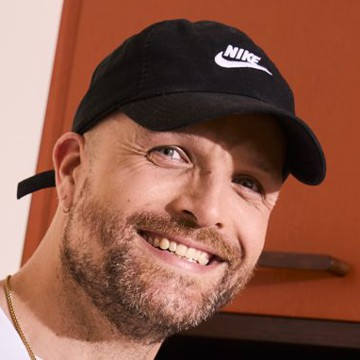
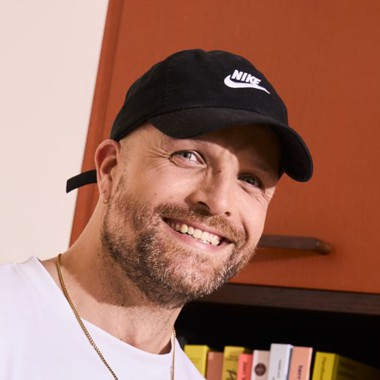
v9: social proof (300k volgers), schone body-font, cover kantelt naar de knop
- Body-font Figtree (nette NL-accenten en i-puntjes)
- Cover kantelt richting de bestelknop
- Korte microcopy: "Bestel nu, 11 september op je mat."
- Lossere nav-avatar

diff --git a/index.html b/index.html
@@ -5,26 +5,26 @@
 <meta name="viewport" content="width=device-width, initial-scale=1">
 <title>Gewoon lekker vegan | Het kookboek van Joris de Kock</title>
 <!--
-  Le Cocque - boek-landingspagina v8 (NL). Korte DOORVERWIJSPAGINA: header, hero (van Joris),
-  foto's, en onderaan Joris zelf. Funnel: Meta ad -> deze pagina -> bol.com (affiliate).
-  Design: Opus. Copy: Fable (boek-toon). Echte kookboek-fotografie (assets/book/).
-  Huisstijl: geen em dashes, geen "-" als scheider, geen middots, geen punt in koppen, geen volgers-claim.
+  Le Cocque - boek-landingspagina v9 (NL). Korte doorverwijspagina naar bol.com (affiliate).
+  v9: body-font Figtree (nette NL-diacritics), cover kantelt naar de knop, korte microcopy,
+  social proof (300.000+ volgers), lossere nav-avatar. Design: Opus. Copy: Fable.
+  Huisstijl: geen em dashes, geen "-" als scheider, geen middots, geen punt in koppen.
 -->
 <link rel="preconnect" href="https://fonts.googleapis.com">
 <link rel="preconnect" href="https://fonts.gstatic.com" crossorigin>
-<link href="https://fonts.googleapis.com/css2?family=Fraunces:ital,opsz,wght@0,9..144,400;0,9..144,500;0,9..144,600;0,9..144,700;1,9..144,400;1,9..144,500&family=Nanum+Gothic:wght@400;700;800&display=swap" rel="stylesheet">
+<link href="https://fonts.googleapis.com/css2?family=Fraunces:ital,opsz,wght@0,9..144,400;0,9..144,500;0,9..144,600;0,9..144,700;1,9..144,400;1,9..144,500&family=Figtree:wght@400;500;600;700;800&display=swap" rel="stylesheet">
 <style>
 :root{
   --cream:#FBFAF7; --cream-2:#F4F2EC; --paper:#FFFFFF;
   --green-deep:#1B3113; --green-bright:#5BAD58; --green-tint:#EAF4E8;
   --ink:#1B3113; --body:#46453F; --border:#E7E3DA; --muted:#7A766B;
   --font-display:"Fraunces",Georgia,"Times New Roman",serif;
-  --font-body:"Nanum Gothic",system-ui,-apple-system,"Segoe UI",Roboto,sans-serif;
+  --font-body:"Figtree",system-ui,-apple-system,"Segoe UI",Roboto,"Helvetica Neue",Arial,sans-serif;
   --radius-tile:24px; --radius-full:9999px; --maxw:1140px;
 }
 *{box-sizing:border-box;margin:0;padding:0}
 html{scroll-behavior:smooth}
-body{font-family:var(--font-body);color:var(--body);font-size:1.06rem;line-height:1.65;background:var(--cream);-webkit-font-smoothing:antialiased;overflow-x:hidden}
+body{font-family:var(--font-body);color:var(--body);font-size:1.05rem;line-height:1.65;background:var(--cream);-webkit-font-smoothing:antialiased;overflow-x:hidden}
 h1,h2,h3{font-family:var(--font-display);color:var(--ink);font-weight:600;line-height:1.05;letter-spacing:-.015em;font-optical-sizing:auto}
 .ital{font-family:var(--font-display);font-style:italic;font-weight:400}
 a{color:inherit;text-decoration:none}
@@ -32,7 +32,7 @@ img{max-width:100%;display:block}
 .wrap{max-width:var(--maxw);margin:0 auto;padding:0 30px}
 section{padding:92px 0}
 
-/* CTA button: clean solid pill, smooth colour-fill on hover, no border, no drop-shadow */
+/* CTA button */
 .btn{position:relative;isolation:isolate;overflow:hidden;display:inline-flex;align-items:center;justify-content:center;gap:10px;border:none;border-radius:var(--radius-full);padding:1.1rem 2.1rem;font-family:var(--font-display);font-weight:600;font-size:17px;cursor:pointer;background:var(--green-deep);color:#fff;transition:color .35s ease,transform .18s ease}
 .btn::before{content:"";position:absolute;inset:0;background:var(--green-bright);transform:translateY(101%);transition:transform .4s cubic-bezier(.2,.75,.2,1);z-index:-1}
 .btn:hover{color:var(--green-deep);transform:translateY(-2px)}
@@ -44,7 +44,7 @@ section{padding:92px 0}
 .nav{position:sticky;top:0;z-index:50;background:rgba(251,250,247,.9);backdrop-filter:blur(12px);border-bottom:1px solid var(--border)}
 .nav .wrap{display:flex;align-items:center;justify-content:space-between;height:72px}
 .brand{display:flex;align-items:center;gap:12px}
-.brand img{width:40px;height:40px;border-radius:50%;object-fit:cover;border:2px solid var(--paper);box-shadow:0 0 0 1px var(--border)}
+.brand img{width:42px;height:42px;border-radius:50%;object-fit:cover;object-position:center 30%;border:2px solid var(--paper);box-shadow:0 0 0 1px var(--border)}
 .brand .name{font-family:var(--font-display);font-weight:700;font-size:25px;color:var(--green-deep)}
 .nav .btn{padding:.72rem 1.5rem;font-size:15px}
 @media(max-width:600px){.nav .btn{display:none}}
@@ -59,10 +59,13 @@ section{padding:92px 0}
 .hero .lede{font-size:1.18rem;margin:28px 0 0;max-width:46ch}
 .hero .meta{font-size:14px;color:var(--muted);margin:22px 0 26px}
 .hero .microcopy{font-size:13.5px;color:var(--green-bright);font-weight:700;margin-top:14px}
+.hero .proof{margin-top:22px;font-size:14px;color:var(--muted);display:inline-flex;align-items:center;gap:9px}
+.hero .proof strong{font-family:var(--font-display);font-weight:700;font-size:19px;color:var(--green-deep)}
+.hero .proof svg{width:17px;height:17px;color:var(--green-bright)}
 .book{display:flex;justify-content:center;perspective:1800px}
-.book-inner{width:min(390px,84%);transform:rotate(-2.5deg);transition:transform .55s cubic-bezier(.2,.7,.2,1)}
+.book-inner{width:min(390px,84%);transform:rotate(2.5deg);transition:transform .55s cubic-bezier(.2,.7,.2,1)}
 .book:hover .book-inner{transform:rotate(0) translateY(-6px)}
-.book img{border-radius:5px 14px 14px 5px;box-shadow:-4px 0 0 rgba(0,0,0,.07),-10px 0 22px rgba(27,49,19,.10),0 30px 55px -14px rgba(27,49,19,.40);border:1px solid rgba(0,0,0,.05)}
+.book img{border-radius:5px 14px 14px 5px;box-shadow:0 32px 55px -14px rgba(27,49,19,.40),12px 0 26px rgba(27,49,19,.10),4px 0 0 rgba(0,0,0,.05);border:1px solid rgba(0,0,0,.05)}
 
 /* food */
 .food-head{text-align:center;max-width:40ch;margin:0 auto 44px}
@@ -111,7 +114,7 @@ footer small{color:var(--muted);font-size:12.5px;width:100%}
   section{padding:68px 0}
   .hero{padding:52px 0 64px}
   .hero-grid{grid-template-columns:1fr;gap:40px}
-  .book-inner{transform:rotate(-2deg);width:min(300px,78vw);margin:0 auto}
+  .book-inner{transform:rotate(2deg);width:min(300px,78vw);margin:0 auto}
   .joris{grid-template-columns:1fr;gap:28px}
   .joris .frame{max-width:340px}
   body{padding-bottom:76px}
@@ -141,8 +144,12 @@ footer small{color:var(--muted);font-size:12.5px;width:100%}
       <p class="meta reveal d3">Verschijnt 11 september 2026. Hardcover, 224 pagina's, &euro; 30.</p>
       <div class="reveal d3">
         <a class="btn btn-lg" href="https://www.bol.com/nl/nl/p/gewoon-lekker-vegan/9300000277719255/?Referrer=ADVNLPPceea17003d8f46380065bba51d681529979&amp;utm_source=1529979&amp;utm_medium=Affiliates&amp;utm_campaign=CPS&amp;utm_content=txl" target="_blank" rel="noopener">Bestel 'm op bol.com</a>
-        <p class="microcopy">Nu reserveren kan al. Op 11 september valt hij vanzelf bij je op de mat.</p>
+        <p class="microcopy">Bestel nu, 11 september op je mat.</p>
       </div>
+      <p class="proof reveal d4">
+        <svg viewBox="0 0 24 24" fill="none" stroke="currentColor" stroke-width="2" aria-hidden="true"><path d="M20 6 9 17l-5-5"/></svg>
+        <span><strong>300.000+</strong> volgers op Instagram en TikTok</span>
+      </p>
     </div>
     <div class="book reveal d4">
       <div class="book-inner">
